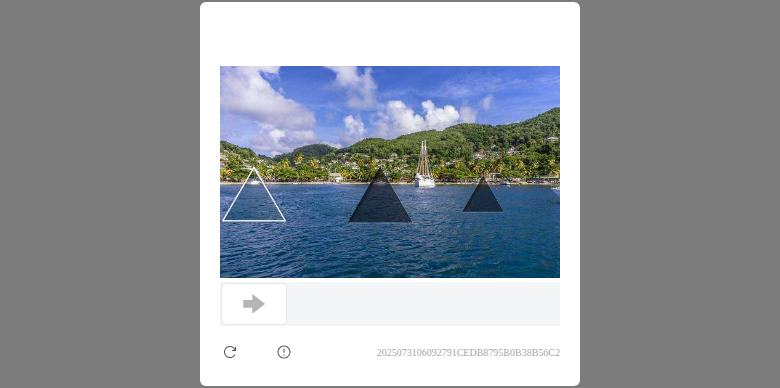
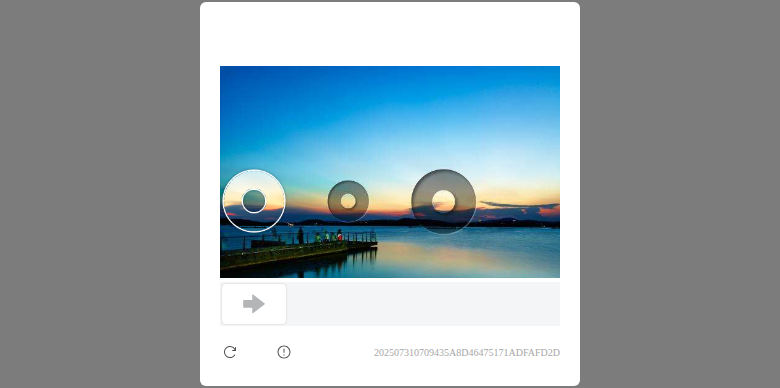
deploy: df55eefaafa6d3f7acde40813797448e9f8e5619

Changed region(s): [[0.2769, 0.1546, 0.7385, 0.7423], [0.4615, 0.8969, 0.7385, 0.9278]]

diff --git a/debug_page.html b/debug_page.html
@@ -136,7 +136,7 @@
 </style>
 <script src="https://lf-rc1.yhgfb-cn-static.com/obj/rc-verifycenter/verifycenter-collect/1.0.0.8-5.1.16/collect-base.js" async=""></script></head>
 <body style="overflow: hidden;">
-  <div id="root" style="display: block; z-index: 111111; position: fixed; width: 100%; height: 100%; background-color: rgba(0, 0, 0, 0.514); margin: auto; inset: 0px;"><iframe src="https://rmc.bytedance.com/verifycenter/captcha/v2?from=iframe&amp;fp=verify_mdqiqfn3_00YVlwb8_FfJs_4au4_8DOp_p6M9F4ayfzOq&amp;env=%7B%22screen%22%3A%7B%22w%22%3A800%2C%22h%22%3A600%7D%2C%22browser%22%3A%7B%22w%22%3A780%2C%22h%22%3A580%7D%2C%22page%22%3A%7B%22w%22%3A780%2C%22h%22%3A388%7D%2C%22document%22%3A%7B%22width%22%3A780%7D%2C%22product_host%22%3A%22www.douyin.com%22%2C%22vc_version%22%3A%221.0.0.253%22%2C%22maskTime%22%3A1753913371231%2C%22h5_check_version%22%3A%223.5.2%22%7D&amp;aid=6383&amp;scene_level=p2&amp;host=https%3A%2F%2Fverify.zijieapi.com&amp;hideCloseBtn=true&amp;verify_data=%7B%22code%22%3A%2210000%22%2C%22from%22%3A%22%22%2C%22type%22%3A%22verify%22%2C%22version%22%3A%22%22%2C%22region%22%3A%22cn%22%2C%22subtype%22%3A%22slide%22%2C%22ui_type%22%3A%22%22%2C%22detail%22%3A%22eLblpJCJE*SA6eF7*42hUABnW0j9rzdp1PM*duW-QCHpMI1S6t1k3XjopkQLL7SJ5gPw5ACvD702Ghdb4tEpgEp7jKzuLaHmQTMCyd5aZXTmQ5FvVt4dA3iYT9m6ddAETHhXsElaLUHA8ZDfwhVZwndBann489oc*v7vncSX0tw0k5Yk2whvUlyZp6xMeNyO81cc2VelM58Jk5kd1bfBbycesV9vnoG2IptotgIm7Aj8OGYZkgR2MdCkEYZyD2o-MmN4bo7oWvkyLMI1NVTKv6AnGXhYN*cUmhNoRcF2I-AUByqYtYpWLUcknzKHfM4FbOeZLYR4wcRDOWXsnuSjWJhkagjdaJr2X6KXq-QoinPLRNRmVKDaXFYESEa0T5v-g*IGuZnF6oMptAI--XfANN3JI7uZ6rA50FqKTpcguaQ9tD77TUqQH9l7KsbfOVVjBxneCPV-DUkibOU6gKLnIYDyf4Wapgpi%22%2C%22verify_event%22%3A%2215699%22%2C%22fp%22%3A%22verify_mdqiqfn3_00YVlwb8_FfJs_4au4_8DOp_p6M9F4ayfzOq%22%2C%22server_sdk_env%22%3A%22%7B%5C%22idc%5C%22%3A%5C%22lf%5C%22%2C%5C%22region%5C%22%3A%5C%22CN%5C%22%2C%5C%22server_type%5C%22%3A%5C%22whale%5C%22%7D%22%2C%22log_id%22%3A%222025073106092791CEDB8795B0B38B56C2%22%2C%22is_assist_mobile%22%3Afalse%2C%22is_complex_sms%22%3Afalse%2C%22identity_action%22%3A%22%22%2C%22identity_scene%22%3A%22%22%2C%22login_status%22%3A0%2C%22aid%22%3A0%7D&amp;extraConfig=%7B%7D" style="border: none; display: block; visibility: visible; border-radius: 6px; overflow: hidden; position: absolute; left: 50%; top: 50%; transform: translate(-50%, -50%); width: 380px; height: 384px;"></iframe></div>
+  <div id="root" style="display: block; z-index: 111111; position: fixed; width: 100%; height: 100%; background-color: rgba(0, 0, 0, 0.514); margin: auto; inset: 0px;"><iframe src="https://rmc.bytedance.com/verifycenter/captcha/v2?from=iframe&amp;fp=verify_mdqkvxfl_VhISKtSF_XxVh_4Ysr_9WJ9_rC6f4tgFvmJ8&amp;env=%7B%22screen%22%3A%7B%22w%22%3A800%2C%22h%22%3A600%7D%2C%22browser%22%3A%7B%22w%22%3A780%2C%22h%22%3A580%7D%2C%22page%22%3A%7B%22w%22%3A780%2C%22h%22%3A388%7D%2C%22document%22%3A%7B%22width%22%3A780%7D%2C%22product_host%22%3A%22www.douyin.com%22%2C%22vc_version%22%3A%221.0.0.253%22%2C%22maskTime%22%3A1753916985125%2C%22h5_check_version%22%3A%223.5.2%22%7D&amp;aid=6383&amp;scene_level=p2&amp;host=https%3A%2F%2Fverify.zijieapi.com&amp;hideCloseBtn=true&amp;verify_data=%7B%22code%22%3A%2210000%22%2C%22from%22%3A%22%22%2C%22type%22%3A%22verify%22%2C%22version%22%3A%22%22%2C%22region%22%3A%22cn%22%2C%22subtype%22%3A%22slide%22%2C%22ui_type%22%3A%22%22%2C%22detail%22%3A%22b-1NAnaQQsjDXVZ1pEoFyPKaka2rnu1Z*C-PmtefLsPGEeTkNb7v4JqDzTNbRXT0kbq1dz0j6H7NDClrG7ywlaNcDumcm1d51BY6s1ijQjwoKV-ufZiYaHmNLZoXHKrhk03KjSdllycm3s25vxD6HtA0KrAKNVTwZ1q-cd6HWys4kRBp4fMpXRFAMK0R9HYK-FazDDN9TiSgCL-LjdSQ6nAaNIe*ibAFP1WCT5jLAPy3UTaxCrUi3jt*ugsIEyZBsAe2rvKZ7DS3NZNHcVOXYFv4qefeiPBPD1EOsXz2NDz4Sj3EcBY9IGDPk6inNUJ2NAQUO9EiGurXoPkcoV1FFlk*at63EM6y-oSbwH1AToA08rBEAOLcFPhDSBHuKoyN9XcbThkD3DtkuCUytZRXL237*3P60nqMPWHEPwO9DCN2eFrmz85Suzl1kuFzp9lEdDcjt8-RJcCYDiDkzQNuV9swC5zyU5yW%22%2C%22verify_event%22%3A%2215699%22%2C%22fp%22%3A%22verify_mdqkvxfl_VhISKtSF_XxVh_4Ysr_9WJ9_rC6f4tgFvmJ8%22%2C%22server_sdk_env%22%3A%22%7B%5C%22idc%5C%22%3A%5C%22lq%5C%22%2C%5C%22region%5C%22%3A%5C%22CN%5C%22%2C%5C%22server_type%5C%22%3A%5C%22whale%5C%22%7D%22%2C%22log_id%22%3A%22202507310709435A8D46475171ADFAFD2D%22%2C%22is_assist_mobile%22%3Afalse%2C%22is_complex_sms%22%3Afalse%2C%22identity_action%22%3A%22%22%2C%22identity_scene%22%3A%22%22%2C%22login_status%22%3A0%2C%22aid%22%3A0%7D&amp;extraConfig=%7B%7D" style="border: none; display: block; visibility: visible; border-radius: 6px; overflow: hidden; position: absolute; left: 50%; top: 50%; transform: translate(-50%, -50%); width: 380px; height: 384px;"></iframe></div>
   <div class="middle_page_loading">
     <span></span>
     <span></span>
@@ -195,7 +195,7 @@
         },
       },
     }
-    const verify_data = {"code":"10000","from":"","type":"verify","version":"","region":"cn","subtype":"slide","ui_type":"","detail":"eLblpJCJE*SA6eF7*42hUABnW0j9rzdp1PM*duW-QCHpMI1S6t1k3XjopkQLL7SJ5gPw5ACvD702Ghdb4tEpgEp7jKzuLaHmQTMCyd5aZXTmQ5FvVt4dA3iYT9m6ddAETHhXsElaLUHA8ZDfwhVZwndBann489oc*v7vncSX0tw0k5Yk2whvUlyZp6xMeNyO81cc2VelM58Jk5kd1bfBbycesV9vnoG2IptotgIm7Aj8OGYZkgR2MdCkEYZyD2o-MmN4bo7oWvkyLMI1NVTKv6AnGXhYN*cUmhNoRcF2I-AUByqYtYpWLUcknzKHfM4FbOeZLYR4wcRDOWXsnuSjWJhkagjdaJr2X6KXq-QoinPLRNRmVKDaXFYESEa0T5v-g*IGuZnF6oMptAI--XfANN3JI7uZ6rA50FqKTpcguaQ9tD77TUqQH9l7KsbfOVVjBxneCPV-DUkibOU6gKLnIYDyf4Wapgpi","verify_event":"15699","fp":"verify_mdqiqfn3_00YVlwb8_FfJs_4au4_8DOp_p6M9F4ayfzOq","server_sdk_env":"{\"idc\":\"lf\",\"region\":\"CN\",\"server_type\":\"whale\"}","log_id":"2025073106092791CEDB8795B0B38B56C2","is_assist_mobile":false,"is_complex_sms":false,"identity_action":"","identity_scene":"","login_status":0,"aid":0}
+    const verify_data = {"code":"10000","from":"","type":"verify","version":"","region":"cn","subtype":"slide","ui_type":"","detail":"b-1NAnaQQsjDXVZ1pEoFyPKaka2rnu1Z*C-PmtefLsPGEeTkNb7v4JqDzTNbRXT0kbq1dz0j6H7NDClrG7ywlaNcDumcm1d51BY6s1ijQjwoKV-ufZiYaHmNLZoXHKrhk03KjSdllycm3s25vxD6HtA0KrAKNVTwZ1q-cd6HWys4kRBp4fMpXRFAMK0R9HYK-FazDDN9TiSgCL-LjdSQ6nAaNIe*ibAFP1WCT5jLAPy3UTaxCrUi3jt*ugsIEyZBsAe2rvKZ7DS3NZNHcVOXYFv4qefeiPBPD1EOsXz2NDz4Sj3EcBY9IGDPk6inNUJ2NAQUO9EiGurXoPkcoV1FFlk*at63EM6y-oSbwH1AToA08rBEAOLcFPhDSBHuKoyN9XcbThkD3DtkuCUytZRXL237*3P60nqMPWHEPwO9DCN2eFrmz85Suzl1kuFzp9lEdDcjt8-RJcCYDiDkzQNuV9swC5zyU5yW","verify_event":"15699","fp":"verify_mdqkvxfl_VhISKtSF_XxVh_4Ysr_9WJ9_rC6f4tgFvmJ8","server_sdk_env":"{\"idc\":\"lq\",\"region\":\"CN\",\"server_type\":\"whale\"}","log_id":"202507310709435A8D46475171ADFAFD2D","is_assist_mobile":false,"is_complex_sms":false,"identity_action":"","identity_scene":"","login_status":0,"aid":0}
     window.TTGCaptcha.init(options)
     window.TTGCaptcha.render({
         verify_data

diff --git a/douyin_home.html b/douyin_home.html
@@ -1,1 +1,1 @@
[2 lines of base64/hex data omitted]

diff --git a/index.html b/index.html
@@ -26,6 +26,6 @@
     <tr><td>2025-07-29 17:37:00</td><td>18703000</td></tr>
     <tr><td>2025-07-29 18:09:19</td><td>18686000</td></tr>
   </table>
-  <p class='last-update'>最后更新: 2025-07-30 22:10:17 UTC</p>
+  <p class='last-update'>最后更新: 2025-07-30 23:10:32 UTC</p>
 </body>
 </html>
